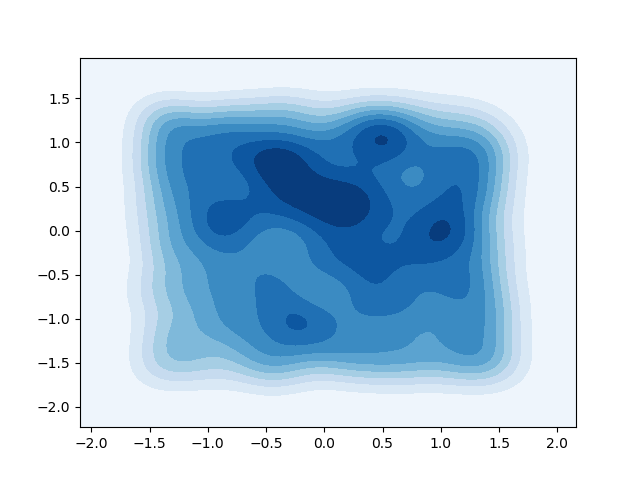
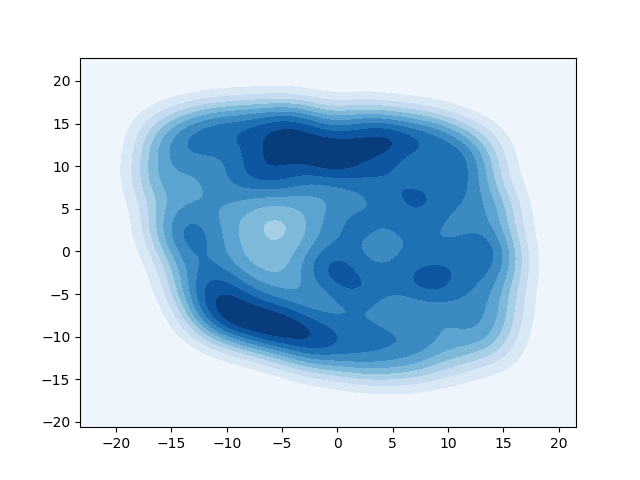
more experiments

diff --git a/gen_data.py b/gen_data.py
@@ -1,0 +1,144 @@
+import numpy as np
+from sklearn.utils import check_random_state
+
+
+def make_moons(n_samples=100, xy_ratio=1.0, x_gap=0.0, y_gap=0.0, noise=None, seed=None):
+    """
+    Arguments
+    ----------
+    n_samples : int (default=100)
+        The total number of points generated.
+    xy_ratio : float (default=1.0)
+        ratio of y range over x range. It should be positive.
+    x_gap : float (default=0.0)
+        Gap between y-axis center of two moons.
+        It should be larger than -0.3
+    y_gap : float (default=0.0)
+        Gap between x-axis center of two moons.
+        It should be larger than -0.3
+    noise : float or None (default=None)
+        Standard deviation of Gaussian noise added to the data.
+    seed : int or None
+        Random seed
+
+    Returns
+    -------
+    X : numpy.ndarray        
+        The generated samples, shape = (n_samples, 2)
+    labels : numpy.ndarray
+        The integer labels (0 or 1) for class membership of each sample.
+        Shape = (n_samples,)
+
+    Usage
+    -----
+        >>> from soydata.data.classification import make_moons
+        >>> from soydata.visualize import scatterplot
+
+        >>> X, labels = make_moons(n_samples=1000, noise=0.1)
+        >>> scatterplot(X, labels=labels)
+
+    References
+    ----------
+    .. [1] scikit-learn sklearn.dataset.samples_generator.make_moons
+    """
+
+    assert xy_ratio > 0
+    assert -0.3 <= x_gap
+    assert -0.3 <= y_gap
+
+    n_samples_out = n_samples // 2
+    n_samples_in = n_samples - n_samples_out
+
+    generator = check_random_state(seed)
+
+    outer_circ_x = np.cos(np.linspace(0, np.pi, n_samples_out)) - x_gap
+    outer_circ_y = xy_ratio * np.sin(np.linspace(0, np.pi, n_samples_out)) + y_gap
+    inner_circ_x = 1 - np.cos(np.linspace(0, np.pi, n_samples_in)) + x_gap
+    inner_circ_y = xy_ratio * (1 - np.sin(np.linspace(0, np.pi, n_samples_in)) - (.5 + y_gap))
+
+    X = np.vstack(
+        (np.append(outer_circ_x, inner_circ_x),
+         np.append(outer_circ_y, inner_circ_y))
+    ).T
+    labels = np.hstack(
+        [np.zeros(n_samples_out, dtype=np.intp),
+         np.ones(n_samples_in, dtype=np.intp)]
+    )
+
+    if noise is not None:
+        noise = generator.normal(scale=noise, size=X.shape)
+        noise[:,1] = noise[:,1] * xy_ratio
+        X += noise
+
+    return X, labels
+
+def make_spiral(n_samples_per_class=300, n_classes=2, n_rotations=3, gap_between_spiral=0.0,
+    gap_between_start_point=0.0, equal_interval=True, noise=None, seed=None):
+
+    """
+    Arguments
+    ---------
+    n_samples_per_class : int (default=300)
+        The number of points of a class.
+    n_classes : int (default=2)
+        The number of spiral
+    n_rotations : int (default=3)
+        The rotation number of spiral
+    gap_between_spiral : float (default=0.0)
+        The gap between two parallel lines
+    gap_betweein_start_point : float (default=0.0)
+        The gap between spiral origin points
+    equal_interval : Boolean (default=True)
+        Equal interval on a spiral line if True.
+        Else their intervals are proportional to their radius.
+    noise : double or None (default=None)
+        Standard deviation of Gaussian noise added to the data.
+    seed : int or None
+        Random seed
+
+    Returns
+    -------
+    X : numpy.ndarray
+        The generated samples, shape = (n_samples, 2)
+    labels : numpy.ndarray
+        The integer labels for class membership of each sample.
+        Shape = (n_samples,)
+
+    Usage
+    -----
+        >>> from soydata.data.classification import make_spiral
+        >>> from soydata.visualize import scatterplot
+
+        >>> X, labels = make_spiral(noise=0.5, n_rotations=2)
+        >>> scatterplot(X, labels=labels)
+    """
+
+    assert 1 <= n_classes and type(n_classes) == int
+
+    generator = check_random_state(None)
+
+    X = []
+    theta = 2 * np.pi * np.linspace(0, 1, n_classes + 1)[:n_classes]
+
+    for c in range(n_classes):
+
+        t_shift = theta[c]
+        x_shift = gap_between_start_point * np.cos(t_shift)
+        y_shift = gap_between_start_point * np.sin(t_shift)
+
+        power = 0.5 if equal_interval else 1.0
+        t = n_rotations * np.pi * (2 * generator.rand(1, n_samples_per_class) ** (power))
+        x = (1 + gap_between_spiral) * t * np.cos(t + t_shift) + x_shift
+        y = (1 + gap_between_spiral) * t * np.sin(t + t_shift) + y_shift
+        Xc = np.concatenate((x, y))
+
+        if noise is not None:
+            Xc += generator.normal(scale=noise, size=Xc.shape)
+
+        Xc = Xc.T
+        X.append(Xc)
+
+    X = np.concatenate(X)
+    labels = np.asarray([c for c in range(n_classes) for _ in range(n_samples_per_class)])
+
+    return X, labels

diff --git a/train_ot.py b/train_ot.py
@@ -5,8 +5,6 @@ warnings.filterwarnings("ignore", category=RuntimeWarning)
 import torch
 import torch.nn as nn
 import torch.nn.functional as F
-import torchvision
-import torchvision.transforms as transforms
 import torch.optim as optim
 from torch.utils import data
 import argparse
@@ -22,6 +20,7 @@ from utils import truncated_normal
 from gsw import GSW
 from ot_modules.icnn import *
 from ot_modules.dual import dual
+from gen_data import *
 
 device = torch.device('cuda' if torch.cuda.is_available() else 'cpu')
 
@@ -29,7 +28,7 @@ class Synthetic(data.Dataset):
     def __init__(self, args,  n=1000):
         self.n = n
         np.random.seed(0)
-        self.y = np.random.normal(loc=0, scale=1, size=(self.n, 2))
+        #self.y = np.random.normal(loc=0, scale=1, size=(self.n, 2))
         #self.y = np.random.multivariate_normal(mean=[2, 3], cov=np.array([[3,-2],[-2,5]]), size=(self.n))
 
         #torch.manual_seed(0)
@@ -45,9 +44,17 @@ class Synthetic(data.Dataset):
         #self.y1 = np.random.exponential(scale=10, size=(self.n, 1))
         #self.y2 = np.random.exponential(scale=2, size=(self.n, 1))
         #self.y = np.concatenate([self.y1, self.y2], axis=1)
+        
+        #gaussian checkerboard
+        #self.y = np.load('../data/synthetic/bary_ot_checkerboard_3.npy', allow_pickle=True).tolist()
+        #self.y = self.y['Y']
+        
+        self.y, _ = make_spiral(n_samples_per_class=self.n, n_classes=1,
+            n_rotations=2.5, gap_between_spiral=0.1, noise=0.2,
+                gap_between_start_point=0.1, equal_interval=True)
 
     def __len__(self):
-        return self.n
+        return len(self.y)#self.y
 
     def __getitem__(self, i):
         #x = torch.empty(args.dims)
@@ -184,7 +191,7 @@ def test(net, args, name, loader):
         if hasattr(p, 'be_positive'):
             print(p)
     '''
-    U = torch.rand(size=(2000, args.dims), requires_grad=True)
+    U = torch.rand(size=(2000, args.dims), requires_grad=True).cuda()
     f = net(U).sum()
     Y_hat = torch.autograd.grad(f, U, create_graph=True)[0]
 
@@ -197,10 +204,7 @@ def test(net, args, name, loader):
 positive_params = []
 
 def train(net, optimizer, loader, args):
-    #loss_fn = GSW()
     k = args.k
-    #W = utils.gen_random_projection(M=10, d=args.dims).permute(1, 0)
-    #W = utils.linear(M=100, d=args.dims).permute(1, 0)
     for epoch in range(1, args.epoch+1):
         running_loss = 0.0
         for idx, batch in enumerate(loader):
@@ -208,11 +212,10 @@ def train(net, optimizer, loader, args):
                 optimizer.zero_grad()
             loss = 0
             Y = batch
-            #Y = torch.matmul(Y, W)
             U = torch.empty(size=(args.batch_size, args.dims, args.m))
             Y_hats = torch.empty(size=(args.batch_size, 1, args.m))
             for j in range(args.m):
-                u = torch.rand(size=(args.batch_size, args.dims))
+                u = torch.rand(size=(args.batch_size, args.dims)).cuda()
                 U[:, :, j] = u
                 Y_hat = net(u)
                 Y_hats[:, :, j] = Y_hat
@@ -228,7 +231,6 @@ def train(net, optimizer, loader, args):
             for p in positive_params:
                 p.data.copy_(torch.relu(p.data))
             running_loss += loss.item()
-        #print(net.L.weight)
         print('%.5f' %
         (running_loss/args.iters))
     test(net, args, name='imgs/trained.png', loader=loader)
@@ -265,12 +267,12 @@ if __name__ == "__main__":
     for key, val in vars(args).items():
         print("{:16} {}".format(key, val))
 
-    #trainloader, testloader = dataloader(args)
+    torch.cuda.set_device('cuda:0')
     net = ICNN_LastInp_Quadratic(input_dim=args.dims,
                                  hidden_dim=128,
                                  activation='celu',
-                                 num_layer=2)
-
+                                 num_layer=3)
+                                 
     for p in list(net.parameters()):
         if hasattr(p, 'be_positive'):
             positive_params.append(p)
@@ -278,11 +280,9 @@ if __name__ == "__main__":
 
     ds = Synthetic(args, n=args.n)
     loader = data.DataLoader(ds, batch_size=args.batch_size, shuffle=True, drop_last=True)
-    #net = torch.nn.RNN(input_size=1, hidden_size=1, num_layers=1, nonlinearity='relu')
-    #criterion = nn.CrossEntropyLoss()
     optimizer = optimizer(net, args)
+    net.cuda()
     train(net, optimizer, loader, args)
-    #test(net, criterion, testloader, args)
     '''
     Y = torch.from_numpy(ds.y)
     plotaxis(Y, name='imgs/theor')

diff --git a/train.py b/train.py
@@ -5,8 +5,6 @@ warnings.filterwarnings("ignore", category=RuntimeWarning)
 import torch
 import torch.nn as nn
 import torch.nn.functional as F
-import torchvision
-import torchvision.transforms as transforms
 import torch.optim as optim
 from torch.utils import data
 import argparse
@@ -20,12 +18,13 @@ import seaborn as sns
 import utils
 from gsw import GSW
 device = torch.device('cuda' if torch.cuda.is_available() else 'cpu')
+from gen_data import *
 
 class Synthetic(data.Dataset):
     def __init__(self, args,  n=1000):
         self.n = n
         np.random.seed(0)
-        self.y = np.random.normal(loc=0, scale=1, size=(self.n, 2))
+        #self.y = np.random.normal(loc=0, scale=1, size=(self.n, 2))
         #self.y = np.random.multivariate_normal(mean=[2, 3], cov=np.array([[3,-2],[-2,5]]), size=(self.n))
 
         #torch.manual_seed(0)
@@ -42,6 +41,15 @@ class Synthetic(data.Dataset):
         #self.y2 = np.random.exponential(scale=2, size=(self.n, 1))
         #self.y = np.concatenate([self.y1, self.y2], axis=1)
 
+        #gaussian checkerboard
+        self.y = np.load('../data/synthetic/bary_ot_checkerboard_3.npy', allow_pickle=True).tolist()
+        self.y = self.y['Y']
+        
+        '''
+        self.y, _ = make_spiral(n_samples_per_class=self.n, n_classes=1,
+            n_rotations=2.5, gap_between_spiral=0.1, noise=0.2,
+                gap_between_start_point=0.1, equal_interval=True)
+        '''
     def __len__(self):
         return self.n
 
@@ -50,7 +58,7 @@ class Synthetic(data.Dataset):
         #x[self.u[i] < 0.5] = 0.5
         #x[self.u[i] >= 0.5] = 0.75
         #u = torch.cat([x, self.u[i]], dim=-1).float()
-        return torch.from_numpy(self.y[i]).float()#, self.u[i].float(), torch.from_numpy(self.x[i]).float()
+        return torch.from_numpy(self.y[i]).float()#, self.u[i].float()#, torch.from_numpy(self.x[i]).float()
 
 class QNN(nn.Module):
     def __init__(self, args):
@@ -217,7 +225,7 @@ def train(net, optimizer, loader, args):
                     #u = torch.matmul(u, W)
                 '''
                 #print(Y_hat.shape, Y.shape, u.shape)
-                loss += l1_quantile_loss(Y_hat, Y, u) #+ 0.3*MMD(Y_hat, Y)
+                loss += l1_quantile_loss(Y_hat, Y, u) #MMD(Y_hat, Y)
             loss /= args.m
             loss.backward()
             optimizer.step()

diff --git a/ot_modules/dual.py b/ot_modules/dual.py
@@ -4,15 +4,24 @@ def dual(U, Y_hat, Y, eps=1):
     loss = torch.mean(Y_hat)
     U = U.unsqueeze(1)
     Y = Y.unsqueeze(-1)
-    psi = torch.empty(Y_hat.shape)
+    '''
+    Y_hat.shape = (batch_size, 1, m)
+    U.shape = (batch_size, 1, dims, m)
+    Y.shape = (batch_size, dims, 1)
+    '''
+    psi = torch.empty(Y_hat.shape) # psi.shape = (batch_size, 1, m)
     for i in range(Y_hat.shape[-1]):
-        mm = torch.bmm(U[:, :, :, i], Y).squeeze(-1)
-        psi[:, :, i] = mm - Y_hat[:, :, i]
+        mm = torch.bmm(U[:, :, :, i], Y).squeeze(-1) # U[:, :, :, i].shape = (batch_size, 1, dims) ==> mm.shape = (batch_size, 1)
+        psi[:, :, i] = mm - Y_hat[:, :, i] #(batch_size, 1) - (batch_size, 1)
     psi = psi.permute(2, 0, 1)
+    '''
+    psi.shape = (m, batch_size, 1)
+    sup.shape = (batch_size, 1)
+    '''
     sup, _ = torch.max(psi, dim=0)
     loss += torch.mean(sup)
-    l = torch.exp(psi-sup/eps)
-    loss += eps*torch.mean(l)
+    #l = torch.exp(psi-sup/eps)
+    #loss += eps*torch.mean(l)
     return loss
 
 def _dual(U, Y_hat, Y, eps=1): #dual w/o calculating the sup in psi and minimizing psi.
